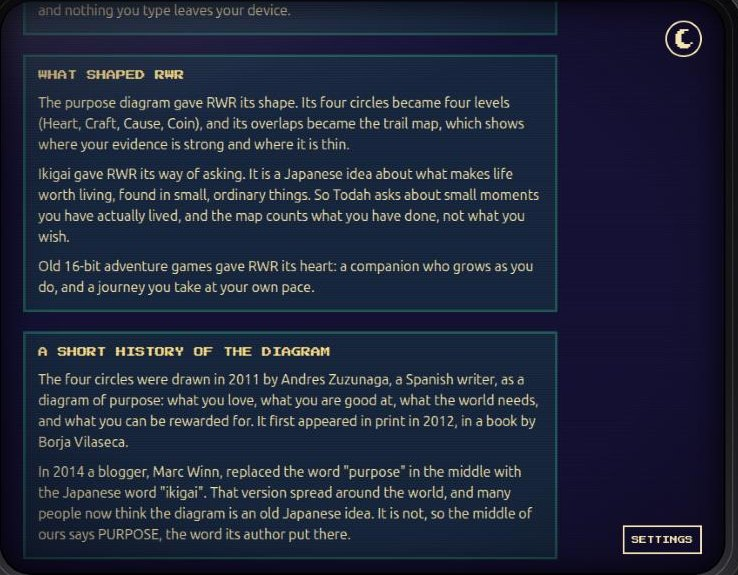
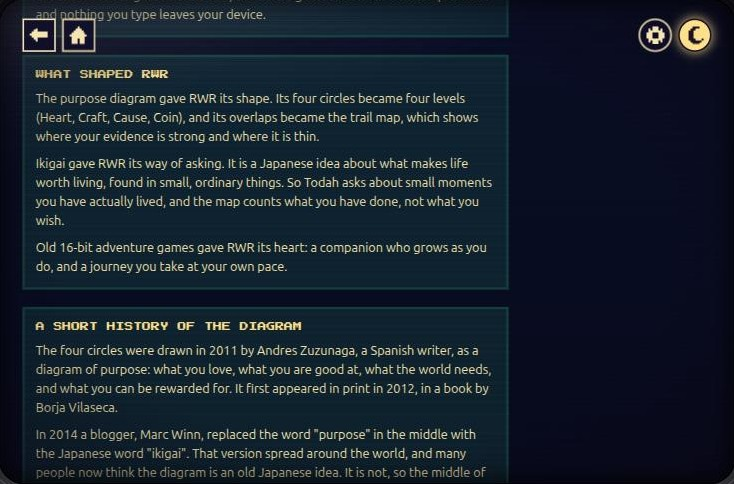
Trail log: retake the game screenshots with the gear in place of the old bar
Seven pictures of game screens still showed ABOUT and SETTINGS floating in
the corner. The level picture now shows the tap round, with its caption.

diff --git a/blog/index.html b/blog/index.html
@@ -644,7 +644,7 @@ const parts = [
         title: 'A lion who will not roar',
         says: 'I have been practicing my roar. You will know when it is time.',
         img: 'hold.jpg',
-        alt: 'A box asking: are you ready to let Todah roar? with a wide button that says hold to roar, half filled with gold.',
+        alt: 'A box asking: are you ready to let Todah roar? with a wide button that says hold to roar.',
         cap: 'The roar is yours to let out. You press and hold, and only once you say the goal is reached.',
         text: [
           'The whole game hangs on one rule: Todah does not roar until you say your goal is reached. Nobody else decides that. Not the game, and not the AI.',
@@ -682,8 +682,8 @@ const parts = [
         title: 'Real moments, not vibes',
         says: 'I ask. You answer. I do not grade. I am a lion, not a teacher.',
         img: 'level.jpg',
-        alt: 'The end of level one: Todah says the circle has two of three evidence, and that it is a place to start from, not a grade.',
-        cap: 'The end of a level. Todah marks the map and refuses to grade you.',
+        alt: 'A level in play: Todah asks a quick question with nothing to type, and four answers to tap, with a button for typing your own.',
+        cap: 'One question in each level is a tap. The others ask for real moments in your own words.',
         text: [
           'In each level Todah asks for a real moment, like the last time you lost track of time doing something. With AI switched on he follows up on what you said. With it off, the same level runs from written questions.',
           'He never grades an answer. A thin circle only means not tested yet.',
